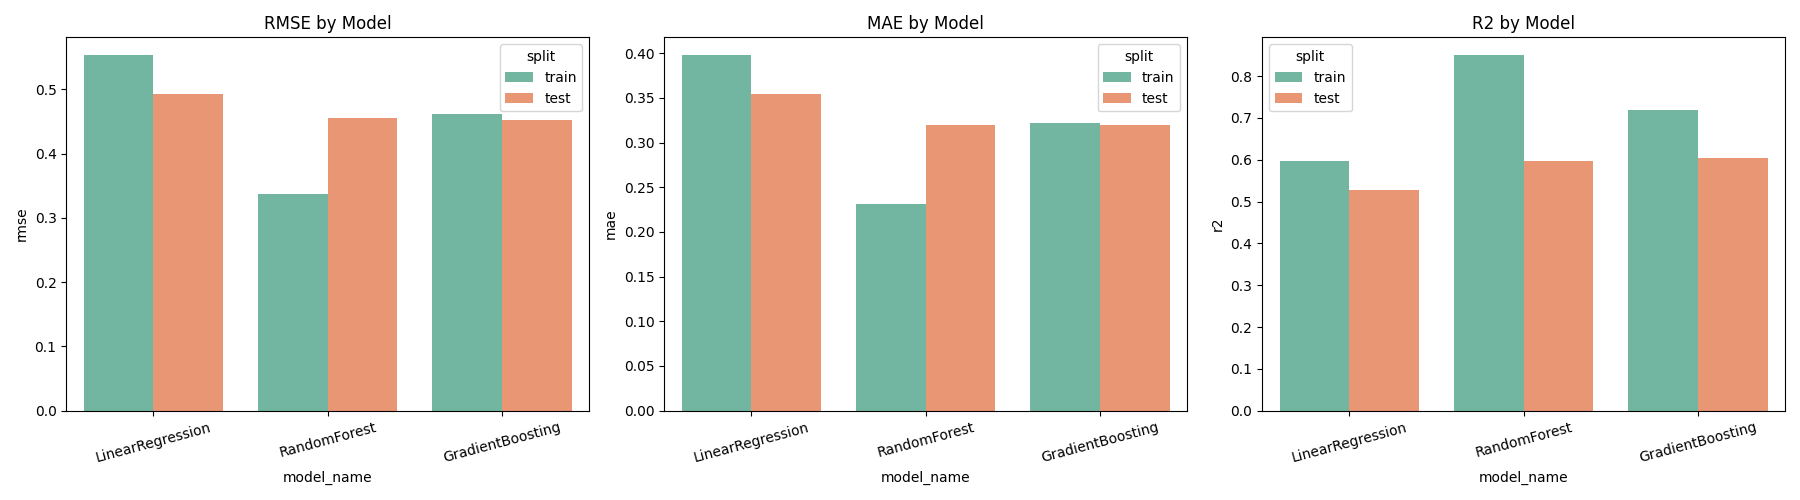
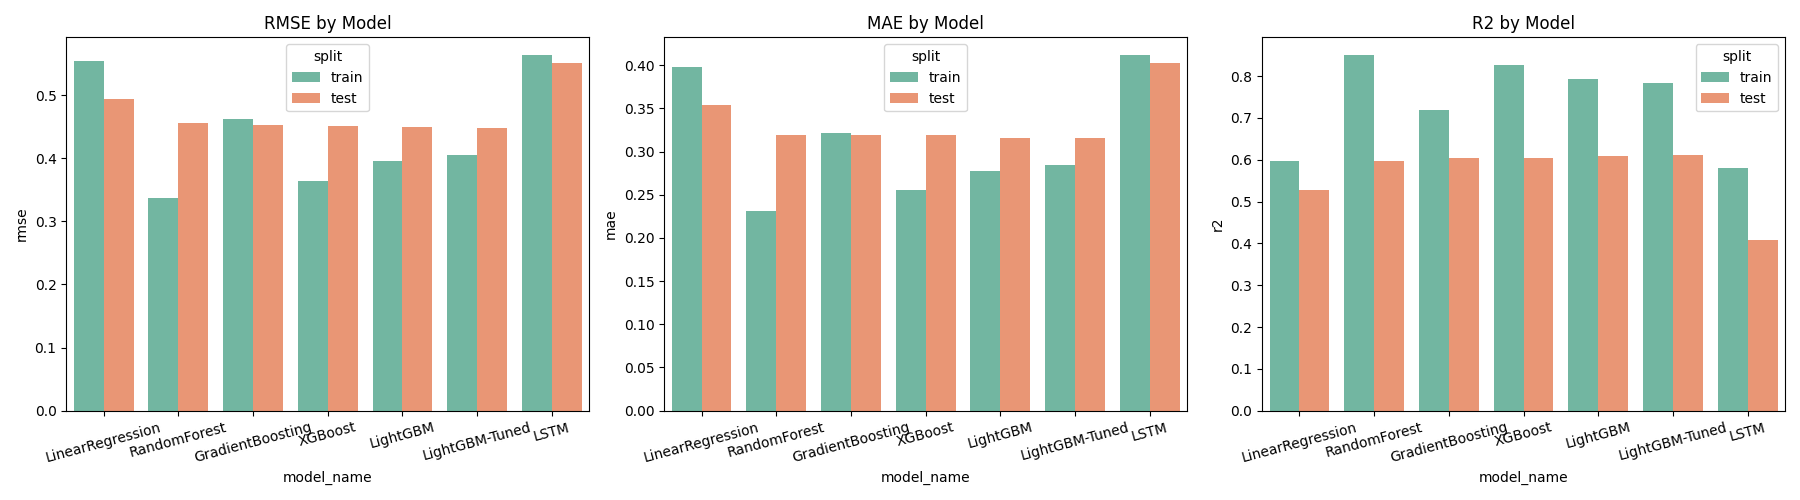
Week 4 Day 7: Full model comparison + Week 4 findings documentation

diff --git a/notebooks/WEEK4_FINDINGS.md b/notebooks/WEEK4_FINDINGS.md
@@ -1,0 +1,77 @@
+# Week 4 Findings — Advanced Models
+
+## 1. Models Trained
+
+| # | Model | Method |
+|---|-------|--------|
+| 1 | XGBoost (baseline) | Default params |
+| 2 | LightGBM (baseline) | Default params |
+| 3 | LightGBM-Tuned | Optuna (30 trials) |
+| 4 | LSTM | 2-layer, 24h sequences |
+
+## 2. Full Model Comparison
+
+| Rank | Model | Test RMSE | Test MAE | Test R² |
+|------|-------|-----------|----------|---------|
+| 🥇 | **LightGBM-Tuned** | **0.4477** | **0.3159** | **0.6116** |
+| 🥈 | LightGBM | 0.4488 | 0.3154 | 0.6097 |
+| 🥉 | XGBoost | 0.4515 | 0.3196 | 0.6050 |
+| 4 | Gradient Boosting | 0.4525 | 0.3191 | 0.6032 |
+| 5 | Random Forest | 0.4561 | 0.3196 | 0.5969 |
+| 6 | Linear Regression | 0.4936 | 0.3538 | 0.5278 |
+| 7 | LSTM | 0.5513 | 0.4021 | 0.4070 |
+
+## 3. Best Model: LightGBM-Tuned
+
+**Hyperparameters (Optuna best):**
+n_estimators: 1000
+learning_rate: 0.0102
+num_leaves: 69
+min_child_samples: 34
+subsample: 0.713
+colsample_bytree: 0.601
+reg_alpha: 1.347
+reg_lambda: 0.199
+
+**Why it won:**
+- Highest test R², lowest RMSE
+- Trains in <2 seconds
+- Small train-test gap (0.17)
+- Handles missing values natively
+
+## 4. Why LSTM Underperformed
+
+The LSTM achieved only R² = 0.407. Reasons:
+
+1. **Engineered features already encode temporal signal** — lags and rolling means give tree models explicit memory
+2. **Dataset too small** (27K samples) for 35K parameters
+3. **Noise-dominated** — trees are more robust
+4. **Short dependency horizon** — dominant signal is `lag_1h`, which is trivial for trees
+
+This is consistent with academic literature on tabular time series.
+
+## 5. Saved Artifacts for Deployment
+
+| File | Purpose |
+|------|---------|
+| `models_saved/lightgbm_tuned.pkl` | **Production model** |
+| `models_saved/scaler_X.pkl` | Feature scaler |
+| `models_saved/scaler_y.pkl` | Target scaler |
+| `outputs/model_results.csv` | Comparison table |
+| `outputs/plots/07_model_comparison.png` | Visual comparison |
+
+## 6. Key Learnings
+
+1. **Tree models dominate tabular forecasting** (+8% R² vs Linear Regression)
+2. **Tuning gives small gains** (LightGBM +0.002)
+3. **Deep learning isn't always better** — LSTM lost by 0.20 R²
+4. **Feature engineering > model complexity**
+5. **Physical leakage is a real risk** — detected and removed `global_intensity`/`global_reactive_power`
+
+## 7. Production Model Selected
+
+**`lightgbm_tuned.pkl`** — best test R², fastest inference, smallest overfit gap.
+
+## 8. Ready for Week 5–6
+
+Next: Flask API + SQLite database + authentication.

diff --git a/README.md b/README.md
@@ -63,7 +63,7 @@ python -m src.preprocessing.clean
 - [x] **Week 2**: Data acquisition, EDA, cleaning pipeline
 - [ ] Week 3: Feature engineering & baseline models
 - [x] Week 3: Feature engineering + baseline models (R²=0.60)
-- [ ] Week 4: Advanced models (Random Forest, LSTM)
+- [x] Week 4: Advanced models (XGBoost, LightGBM, LSTM, Optuna) — best R²=0.612
 - [ ] Week 5-6: Backend API (Flask)
 - [ ] Week 7-8: Frontend dashboard
 - [ ] Week 9: Integration & testing
